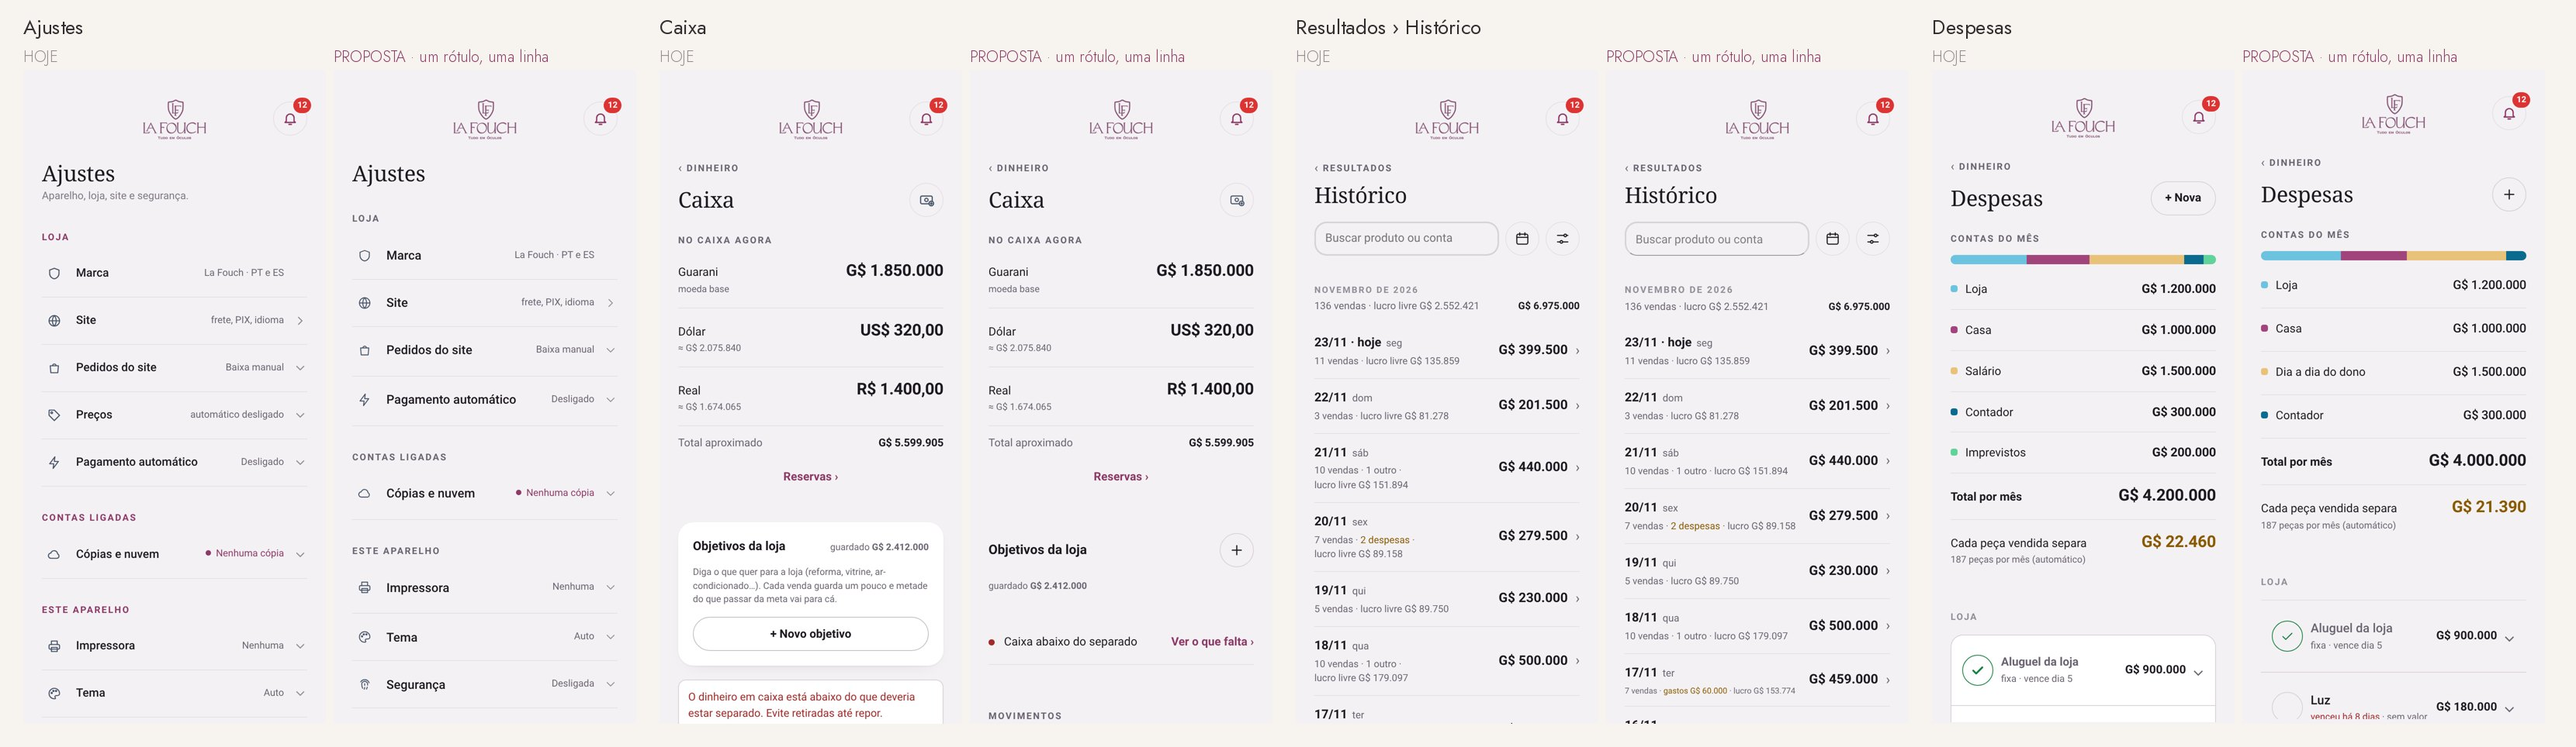
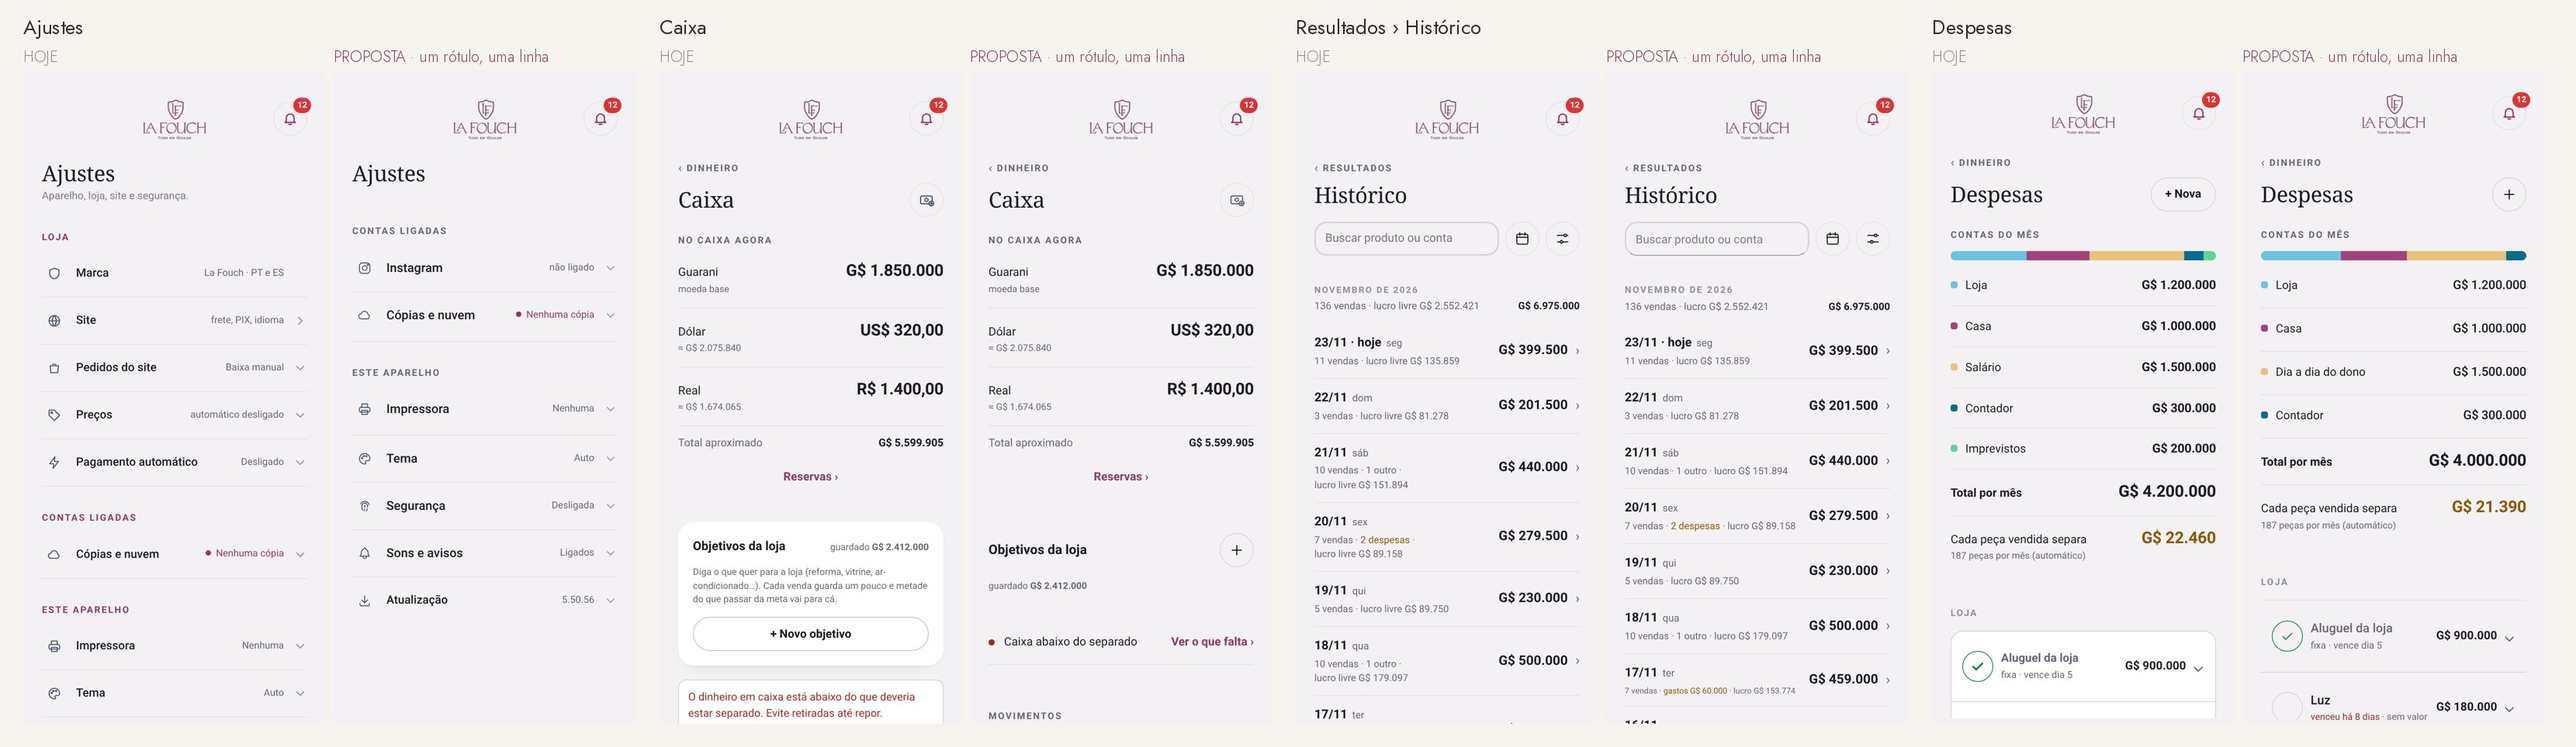
S435: 86 v2 com Ajustes no estado aprovado (aprovados.ajustes)
Claude-Session: https://claude.ai/code/session_01Vj5GPRt4UBskC3w8v52h7G

diff --git a/work/s435/varredura/titulos/esboco_86.py b/work/s435/varredura/titulos/esboco_86.py
@@ -4,7 +4,9 @@
 #   (rosa em Ajustes, cinza no resto) → UM rótulo: 12 px, peso 600, espaço .14em, cinza (aprovado 37b, 21/11: rótulos cinza).
 # · linhas de lista: 14 alturas (44 a 109 px) e o texto principal em 8 tamanhos/pesos → UMA linha: título 16 px peso 500, frase 13 px cinza;
 #   altura 56 (uma linha de texto) ou 64 (título + frase) — múltiplos de 8 (L3). Números grandes (valores) ficam como dado.
-# · Ajustes na proposta: sem Preços/Preço automático/Contas, taxas e meta (aprovados 46d/54/62: Preços é do Titan).
+# · v2 (dono 00:43: 'está usando modelos antigos'): Ajustes no estado APROVADO (22/11 01:28 + 21:56 + 46): só Contas ligadas (Instagram ·
+#   Cópias e nuvem) e Este aparelho (Impressora · Tema · Segurança · Sons e avisos · Atualização); saem Marca, Site, Pedidos do site, Preços,
+#   Pagamento automático e o bloco Loja. (aprovados.ajustes)
 # · subtítulo 'Aparelho, loja, site e segurança.' sai (descrição inútil, mesma regra do 70/54/83).
 # · Despesas leva o aprovado 79: 'Salário' vira 'Dia a dia do dono'; sai 'Provisão de imprevistos' (a caixinha substitui) → contas G$ 4.000.000,
 #   cada peça separa G$ 21.390 (4.000.000 ÷ 187). Histórico: a frase da linha não pode quebrar (L4) → 'lucro' no lugar de 'lucro livre'.
@@ -30,7 +32,7 @@ def cena(pw,esc,prop,v):
   b,pg,w=ap.abre(pw,v,esc,'celular',base=prop);w(1000)
   if prop:
     aprovados.aplica(pg)
-    if v=='ajustes': pg.add_style_tag(content='#v-ajustes .ajS[data-k=preco],#v-ajustes .ajS[data-k=pa],#v-ajustes .paCard,#v-ajustes .fxF{display:none!important}');pg.evaluate("()=>{const c=[...document.querySelectorAll('#v-ajustes *')].find(e=>e.children.length==0&&/^Aparelho, loja, site e segurança/.test(e.textContent.trim()));c&&c.remove()}");w(300)
+    if v=='ajustes': aprovados.ajustes(pg)
     if v=='desp': pg.evaluate(DESP);w(300)
     if v=='hist': pg.evaluate("()=>{document.querySelectorAll('#v-hist small, #v-hist .hint, #v-hist span, #v-hist div').forEach(e=>{if(e.children.length==0&&/lucro livre/.test(e.textContent))e.textContent=e.textContent.replace('lucro livre','lucro')});document.querySelectorAll('#v-hist *').forEach(e=>{if(e.children.length<=3&&/· 1 outro ·/.test(e.textContent)&&e.children.length==0)e.textContent=e.textContent.replace(' 1 outro ·','')})}");w(300)
     pg.evaluate(REGRA);w(400)

diff --git a/work/s435/varredura/aprovados.py b/work/s435/varredura/aprovados.py
@@ -13,3 +13,17 @@ def aplica(pg):
   pg.add_style_tag(content=LINHA)
   pg.evaluate(TIRA,EXPL);pg.evaluate(FICA);pg.evaluate(BOT);pg.evaluate(ICO)
   pg.evaluate(VIRA,'.tmseg,.sg418,.catbar3,.adSeg,#sortChips,#fFaixas');pg.wait_for_timeout(300);pg.evaluate(ALIN);pg.wait_for_timeout(200)
+
+# AJUSTES no estado APROVADO (22/11 01:28 'cada ajuste mora na tela do assunto' + 21:56 Marca só no Marketing + 46 sem Preços/Pagamento
+# automático): Ajustes = só gerais — CONTAS LIGADAS: Instagram · Cópias e nuvem · ESTE APARELHO: Impressora · Tema · Segurança · Sons e avisos ·
+# Atualização. Saem Marca, Site, Pedidos do site, Preços (e Preço automático / Contas, taxas e meta), Pagamento automático, e o bloco LOJA.
+AJUSTES_CSS='#v-ajustes .ajS[data-k=marca],#v-ajustes .ajS[data-k=site],#v-ajustes .ajS[data-k=ped],#v-ajustes .ajS[data-k=preco],#v-ajustes .ajS[data-k=pa],#v-ajustes .ajS[data-k=pauto],#v-ajustes .paCard,#v-ajustes .fxF{display:none!important}'
+AJUSTES_JS=r"""()=>{const v=document.getElementById('v-ajustes');if(!v)return;
+ v.querySelectorAll('.ajBl').forEach(b=>{const t=b.querySelector('.ajBt');if(t&&/^loja$/i.test(t.textContent.trim()))b.style.setProperty('display','none','important')});
+ const c=[...v.querySelectorAll('*')].find(e=>e.children.length==0&&/^Aparelho, loja, site e segurança/.test(e.textContent.trim()));c&&c.remove();
+ [...v.querySelectorAll('*')].filter(e=>e.children.length==0&&/^Versão [\d.]+$/.test(e.textContent.trim())&&!e.closest('.ajS')).forEach(e=>e.remove());
+ const bk=v.querySelector('.ajS[data-k=bk]');if(bk&&!v.querySelector('.ajS[data-k=ig]')){const ig=bk.cloneNode(true);ig.dataset.k='ig';ig.querySelectorAll('.ajB,.ajBi').forEach(x=>x.remove());
+  ig.querySelector('.ajR b').textContent='Instagram';const r=ig.querySelector('.ajRes');if(r){r.textContent='não ligado';r.style.color='var(--mute)'}
+  const s=ig.querySelector('.ajIc svg');if(s)s.innerHTML='<rect x="3" y="3" width="18" height="18" rx="5"/><circle cx="12" cy="12" r="4"/><circle cx="17.5" cy="6.5" r="1"/>';bk.parentNode.insertBefore(ig,bk)}}"""
+def ajustes(pg):
+  pg.add_style_tag(content=AJUSTES_CSS);pg.evaluate(AJUSTES_JS);pg.wait_for_timeout(200)
